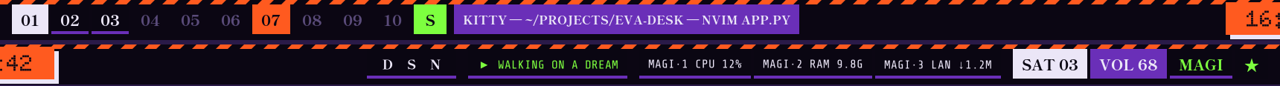
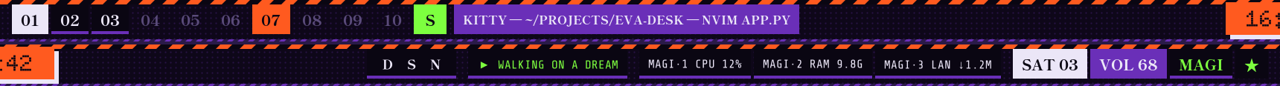
bar: halftone dots and the hazard rule

diff --git a/eva_desk/bar.py b/eva_desk/bar.py
@@ -61,17 +61,46 @@ class Bar:
         self.win.set_visible(on)
 
     # ---------------------------------------------------------------- drawing
+    _dot_cache = {}
+
+    def _dots(self, u):
+        """A repeating halftone tile: one purple dot per 7 px cell, cached per bar scale."""
+        import cairo
+        key = round(u, 3)
+        if key not in self._dot_cache:
+            step = max(4, int(round(7 * u)))
+            tile = cairo.ImageSurface(cairo.FORMAT_ARGB32, step, step)
+            tc = cairo.Context(tile)
+            d.rgba(tc, d.CLARET, 0.28)
+            tc.arc(step / 2, step / 2, max(0.8, 1.1 * u), 0, 6.2832)
+            tc.fill()
+            pat = cairo.SurfacePattern(tile)
+            pat.set_extend(cairo.EXTEND_REPEAT)
+            self._dot_cache[key] = pat
+        return self._dot_cache[key]
+
     def _draw(self, area, cr, w, h):
         u = h / 56
         th = 40 * u
         y = (h - th) / 2 - 2 * u
         self.hits = []
         st = self.state
-        ground = float(self.cfg["bar"].get("opacity", 0.94))
+        ground = float(self.cfg["bar"].get("opacity", 0.8))
+        motif = str(self.cfg["bar"].get("motif", "both"))
         if ground > 0:                                   # the bar's own ground, so it reads on any wallpaper
             d.rgba(cr, d.INK, ground)
             cr.rectangle(0, 0, w, h)
             cr.fill()
+        if motif in ("dots", "both"):                    # the halftone screen, purple on ink
+            cr.save()
+            cr.rectangle(0, 0, w, h - 3 * u)
+            cr.clip()
+            cr.set_source(self._dots(u))
+            cr.paint()
+            cr.restore()
+        if motif in ("hazard", "both"):                  # the stage band along the bottom edge
+            d.hazard(cr, 0, h - 3 * u, w, 3 * u, d.CLARET, d.col("ink4"), period=14 * u)
+        elif ground > 0:
             d.rgba(cr, d.col("ink4"), min(1.0, ground + 0.06))
             cr.rectangle(0, h - 2 * u, w, 2 * u)
             cr.fill()

diff --git a/eva_desk/config.py b/eva_desk/config.py
@@ -52,6 +52,7 @@ DEFAULTS = {
         "enabled": True,
         "height": 56,
         "opacity": 0.8,           # the bar's ink ground over the wallpaper (0 = see-through, 1 = solid); Hyprland blurs behind it
+        "motif": "both",          # dots (halftone screen) | hazard (the stripe along the bottom) | both | none
         "workspaces": 10,
         "hide_on_workspaces": [],
         "resources": ["cpu", "mem", "net"],   # resource tags left of the date; [] hides them
